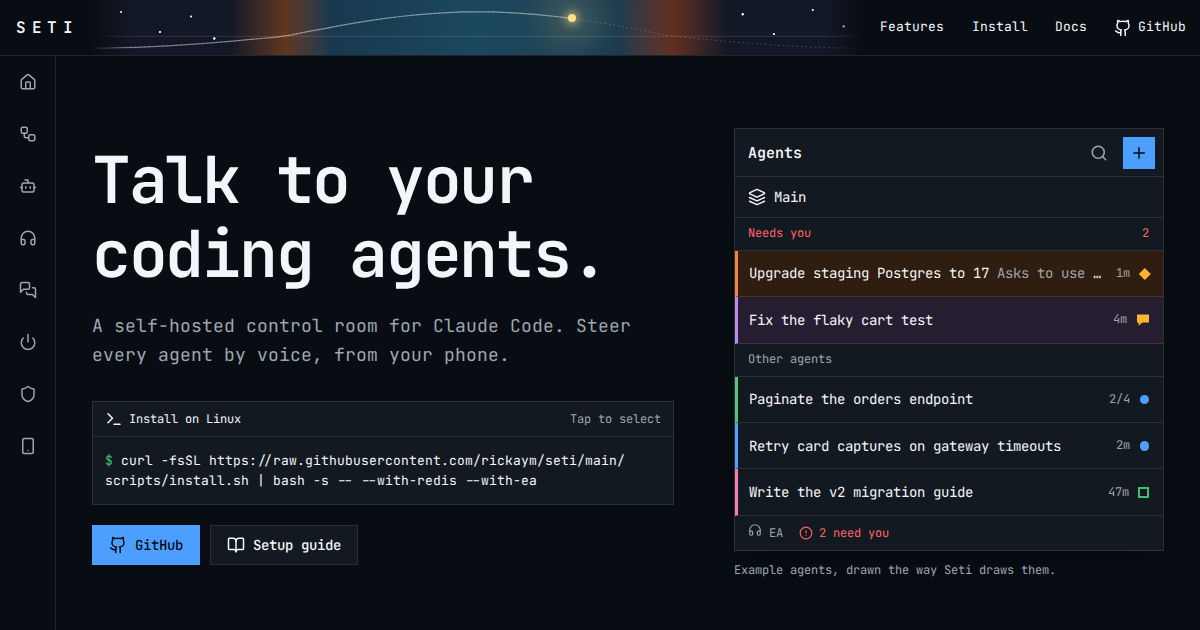
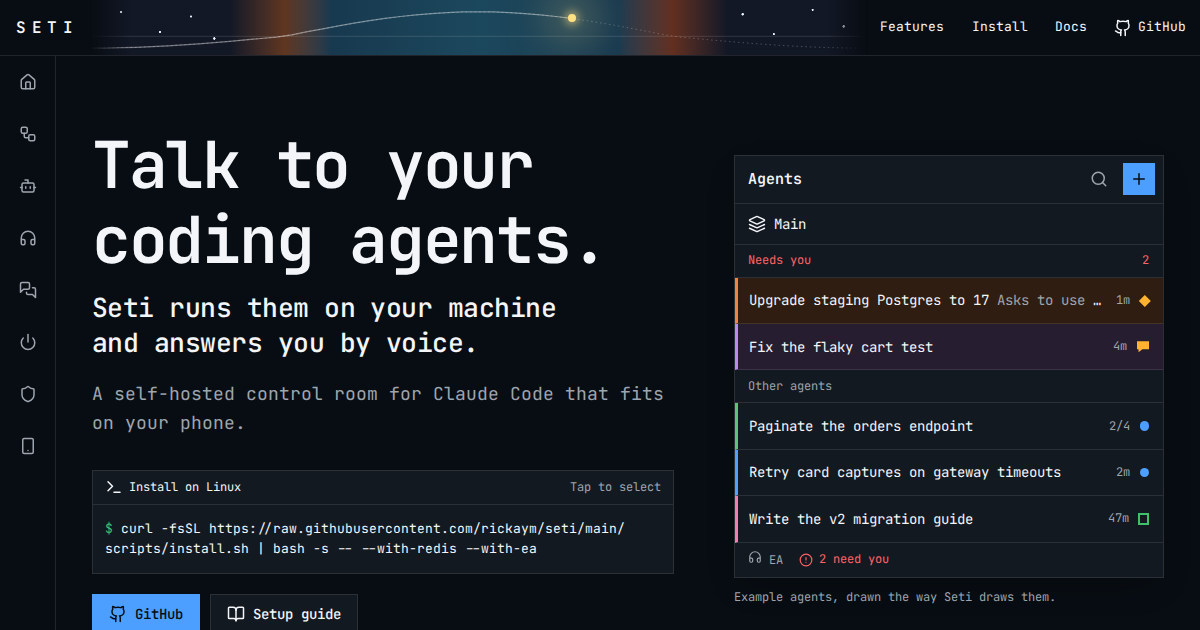
feat(site): set the full voice-first headline in the hero

diff --git a/site/index.html b/site/index.html
@@ -6,7 +6,7 @@
     <title>Seti - talk to your coding agents</title>
     <meta
       name="description"
-      content="A self-hosted control room for Claude Code. Steer every agent by voice, from your phone."
+      content="Talk to your coding agents. Seti runs them on your machine and answers you by voice."
     />
     <link rel="canonical" href="https://rickaym.dev/seti/" />
     <meta name="color-scheme" content="light dark" />
@@ -22,7 +22,7 @@
     <meta property="og:title" content="Seti - talk to your coding agents" />
     <meta
       property="og:description"
-      content="A self-hosted control room for Claude Code. Steer every agent by voice, from your phone."
+      content="Talk to your coding agents. Seti runs them on your machine and answers you by voice."
     />
     <meta property="og:url" content="https://rickaym.dev/seti/" />
     <meta property="og:image" content="https://rickaym.dev/seti/og.png" />
@@ -36,7 +36,7 @@
     <meta name="twitter:title" content="Seti - talk to your coding agents" />
     <meta
       name="twitter:description"
-      content="A self-hosted control room for Claude Code. Steer every agent by voice, from your phone."
+      content="Talk to your coding agents. Seti runs them on your machine and answers you by voice."
     />
     <meta name="twitter:image" content="https://rickaym.dev/seti/og.png" />
     <meta
@@ -246,8 +246,11 @@
       <main id="main">
         <section class="hero" aria-labelledby="hero-title">
           <div>
-            <h1 id="hero-title">Talk to your coding agents.</h1>
-            <p class="lead">A self-hosted control room for Claude Code. Steer every agent by voice, from your phone.</p>
+            <h1 id="hero-title">
+              Talk to your coding agents.
+              <span class="h1-more">Seti runs them on your machine and answers you by voice.</span>
+            </h1>
+            <p class="lead">A self-hosted control room for Claude Code that fits on your phone.</p>
             <div class="install" id="get">
               <div class="install-head">
                 <span

diff --git a/site/style.css b/site/style.css
@@ -405,6 +405,16 @@ main {
   letter-spacing: -0.035em;
 }
 
+.hero .h1-more {
+  display: block;
+  max-width: 30ch;
+  margin-top: 0.9rem;
+  font-size: clamp(1.25rem, 2.2vw, 1.85rem);
+  font-weight: 500;
+  line-height: 1.3;
+  letter-spacing: -0.02em;
+}
+
 .hero .lead {
   max-width: 38rem;
   margin-top: 1.25rem;
